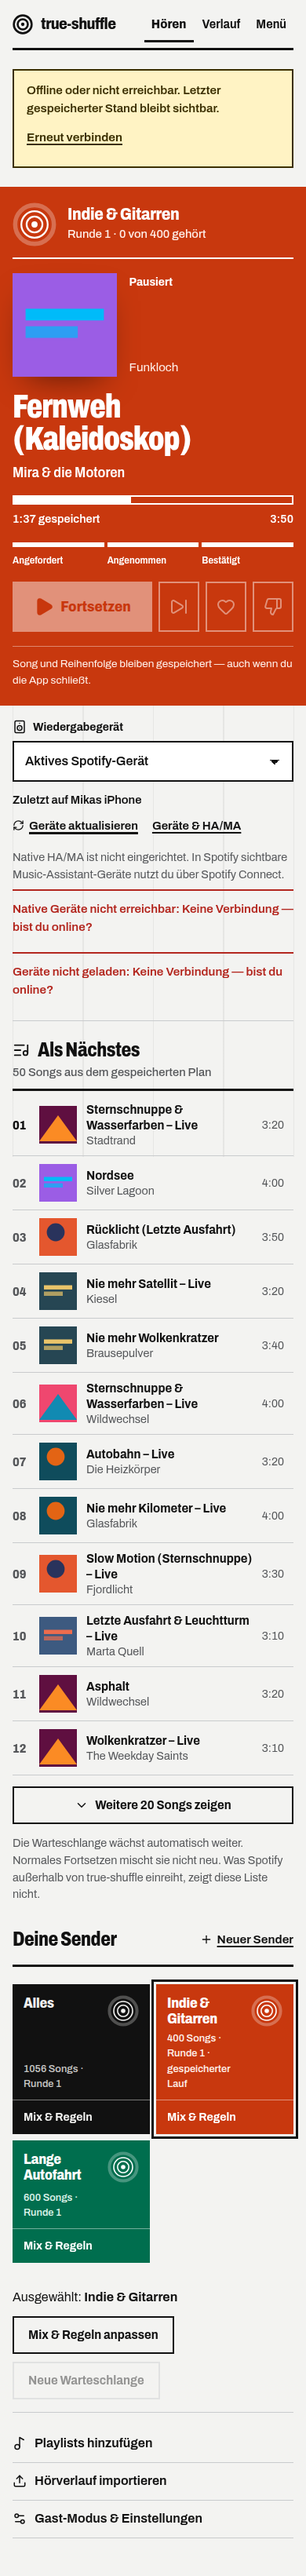
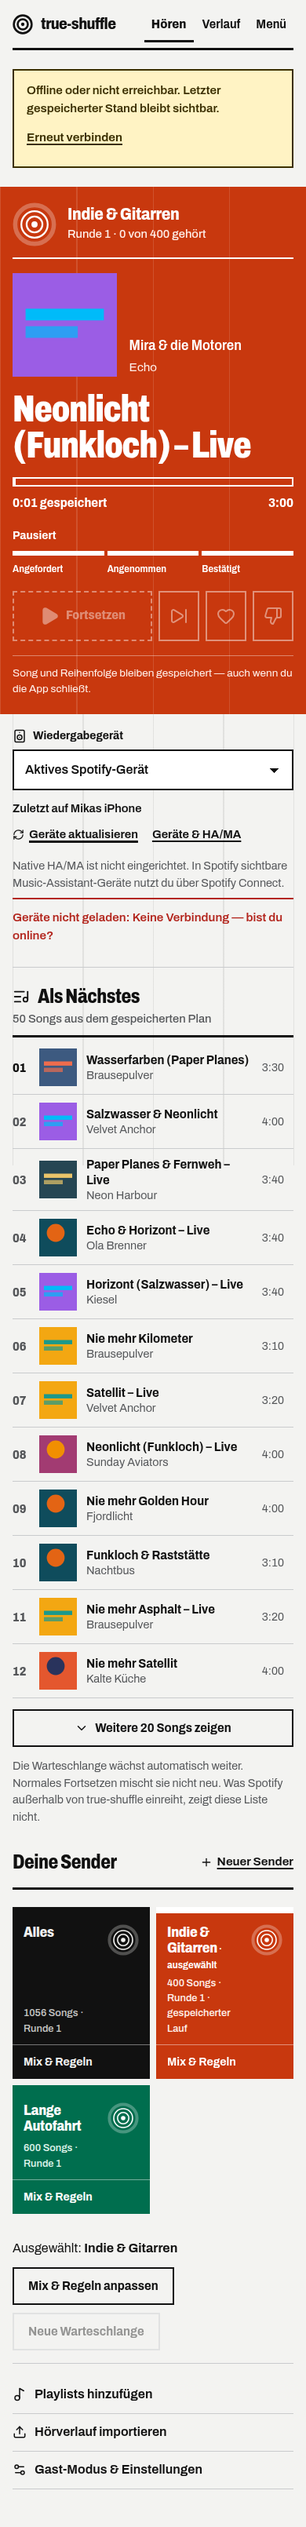
Apply finish-review fixes to the poster player
Give accepted commands their own label so requested, accepted and
confirmed read differently; print held transport keys as outline
overprint; scale song titles and times to poster size; stretch the
station poster wall across the desktop grid; mark the section in the
header on sub-pages; print An/Aus beside switches; drop the duplicate
native-device error while the Spotify device error is shown.

Two client-playback assertions now expect the accepted-phase label
(Start angenommen …); they still assert that the command is not yet
confirmed.

Claude-Session: https://claude.ai/code/session_01QBgbPCtGYi5ogN8oLRbo26

diff --git a/src/client/styles.css b/src/client/styles.css
@@ -16,7 +16,7 @@
 	--fg-2: #55575a;
 	--rule: #111111;
 	--hair: #c9cbcd;
-	--grid: rgb(17 17 17 / 0.055);
+	--grid: rgb(17 17 17 / 0.08);
 	--raise: #ffffff;
 	--danger: #b3261e;
 	--warn-bg: #fff3c4;
@@ -48,7 +48,7 @@
 	--fg-2: #a3a5a8;
 	--rule: #f2f2ee;
 	--hair: #303236;
-	--grid: rgb(242 242 238 / 0.05);
+	--grid: rgb(242 242 238 / 0.075);
 	--raise: #17181a;
 	--danger: #ff8a7f;
 	--warn-bg: #3b2f00;
@@ -64,7 +64,7 @@
 		--fg-2: #a3a5a8;
 		--rule: #f2f2ee;
 		--hair: #303236;
-		--grid: rgb(242 242 238 / 0.05);
+		--grid: rgb(242 242 238 / 0.075);
 		--raise: #17181a;
 		--danger: #ff8a7f;
 		--warn-bg: #3b2f00;
@@ -347,7 +347,7 @@ svg {
 	border-bottom-color: var(--fg-2);
 }
 
-.app-header :where(nav a)[aria-current="page"] {
+.app-header :where(nav a)[aria-current] {
 	border-bottom-color: var(--fg);
 	font-weight: 800;
 }
@@ -501,7 +501,12 @@ main h1[tabindex="-1"]:focus {
 
 .poster {
 	position: relative;
-	background: var(--ink);
+	background-color: var(--ink);
+	background-image: repeating-linear-gradient(
+		to right,
+		color-mix(in srgb, var(--on) 13%, transparent) 0 1px,
+		transparent 1px 25%
+	);
 	color: var(--on);
 	padding: 20px var(--gutter) 22px;
 	display: grid;
@@ -581,11 +586,10 @@ main h1[tabindex="-1"]:focus {
 	display: grid;
 	grid-template-columns: min(34vw, 140px) minmax(0, 1fr);
 	grid-template-areas:
-		"art status"
+		"art artist"
 		"art album"
-		"title title"
-		"artist artist";
-	grid-template-rows: auto 1fr auto auto;
+		"title title";
+	grid-template-rows: 1fr auto auto;
 	column-gap: 16px;
 	row-gap: 6px;
 }
@@ -597,7 +601,6 @@ main h1[tabindex="-1"]:focus {
 	height: auto;
 	object-fit: cover;
 	background: color-mix(in srgb, var(--on) 14%, var(--ink));
-	box-shadow: 0 18px 40px -18px rgb(0 0 0 / 0.55);
 	margin-bottom: 10px;
 }
 
@@ -605,8 +608,12 @@ main h1[tabindex="-1"]:focus {
 	display: contents;
 }
 
+.signal-block {
+	display: grid;
+	gap: 8px;
+}
+
 .session-status {
-	grid-area: status;
 	font-weight: 700;
 	font-stretch: 90%;
 	font-size: 0.95rem;
@@ -615,7 +622,8 @@ main h1[tabindex="-1"]:focus {
 
 .now-copy h2 {
 	grid-area: title;
-	font-size: clamp(2.35rem, 11vw, 4.6rem);
+	overflow-wrap: break-word;
+	font-size: clamp(2.6rem, 12.5vw, 4.25rem);
 	font-weight: 850;
 	font-stretch: 72%;
 	line-height: 0.94;
@@ -625,6 +633,7 @@ main h1[tabindex="-1"]:focus {
 
 .now-copy .artist {
 	grid-area: artist;
+	align-self: end;
 	font-size: clamp(1.15rem, 4.6vw, 1.6rem);
 	font-weight: 600;
 	font-stretch: 88%;
@@ -697,9 +706,11 @@ main h1[tabindex="-1"]:focus {
 .progress-labels {
 	display: flex;
 	justify-content: space-between;
+	align-items: baseline;
 	gap: 12px;
-	font-size: 0.9rem;
-	font-weight: 600;
+	font-size: 1.05rem;
+	font-weight: 750;
+	font-stretch: 85%;
 }
 
 /* Signal: requested → accepted → confirmed. */
@@ -811,9 +822,17 @@ main h1[tabindex="-1"]:focus {
 	background: color-mix(in srgb, var(--on) 92%, var(--ink));
 }
 
-.poster .icon-button:disabled,
-.poster .primary:disabled {
+.poster .icon-button:disabled {
 	opacity: 0.45;
+}
+
+/* Not available now (held, offline, not ready): the key prints as outline overprint. */
+.poster .transport-main:disabled {
+	background: transparent;
+	color: var(--on);
+	border-style: dashed;
+	font-size: 1.02rem;
+	line-height: 1.15;
 }
 
 .poster__note {
@@ -1293,13 +1312,20 @@ select.input {
 	background: var(--ink);
 	color: var(--on);
 	min-width: 0;
-	outline: 3px solid transparent;
-	outline-offset: 3px;
-	transition: outline-color var(--t) var(--ease);
+	border-top: 8px solid transparent;
+	transition: border-color var(--t) var(--ease);
 }
 
 .station-choice--selected {
-	outline-color: var(--fg);
+	border-top-color: var(--on);
+}
+
+.station-choice--selected .station-choice__name::after {
+	content: " · ausgewählt";
+	font-size: 0.8rem;
+	font-weight: 650;
+	font-stretch: 90%;
+	letter-spacing: 0;
 }
 
 .station-choice button {
@@ -1583,6 +1609,13 @@ input[type="radio"].check {
 	flex: none;
 	display: inline-flex;
 	align-items: center;
+	gap: 10px;
+}
+
+.lever__state {
+	min-width: 3ch;
+	font-weight: 800;
+	font-stretch: 85%;
 }
 
 .switch {
@@ -2195,7 +2228,6 @@ input[type="radio"].check {
 		min-width: 0;
 	}
 
-	.now-copy .session-status,
 	.now-copy h2,
 	.now-copy .artist,
 	.now-copy .album {
@@ -2204,7 +2236,7 @@ input[type="radio"].check {
 	}
 
 	.now-copy h2 {
-		font-size: clamp(2.4rem, 7vw, 4.4rem);
+		font-size: clamp(2.8rem, 7.5vw, 4.6rem);
 	}
 }
 
@@ -2267,7 +2299,7 @@ input[type="radio"].check {
 	}
 
 	.now-copy h2 {
-		font-size: clamp(3rem, 4.6vw, 5.4rem);
+		font-size: clamp(3.4rem, 5.4vw, 6rem);
 	}
 
 	.library .station-actions,
@@ -2283,6 +2315,26 @@ input[type="radio"].check {
 	.library > .section__head,
 	.library > .station-list {
 		grid-column: 1 / -1;
+	}
+
+	.library > .station-list {
+		grid-template-columns: repeat(auto-fit, minmax(240px, 1fr));
+		gap: 10px;
+	}
+
+	.station-choice button {
+		min-height: 168px;
+		padding: 18px 18px 14px;
+	}
+
+	.station-choice__name {
+		font-size: clamp(1.6rem, 2.2vw, 2.25rem);
+		line-height: 0.98;
+	}
+
+	.station-choice .round-figure {
+		width: 56px;
+		height: 56px;
 	}
 
 	.library > .station-actions {

diff --git a/src/client/screens/home.tsx b/src/client/screens/home.tsx
@@ -244,11 +244,17 @@ export function Home({ state }: { state: AppState }) {
 			? "Befehl fehlgeschlagen"
 			: command?.phase === "unconfirmed"
 				? "Bestätigung steht aus"
-				: command?.action === "pause"
-					? "Pause angefordert …"
-					: command?.action === "next"
-						? "Songwechsel angefordert …"
-						: "Start angefordert …";
+				: command?.phase === "accepted"
+					? command.action === "pause"
+						? "Pause angenommen …"
+						: command.action === "next"
+							? "Songwechsel angenommen …"
+							: "Start angenommen …"
+					: command?.action === "pause"
+						? "Pause angefordert …"
+						: command?.action === "next"
+							? "Songwechsel angefordert …"
+							: "Start angefordert …";
 
 	const thumb = async (value: -1 | 1) => {
 		if (!track || view.projected || view.awaitingObservation || unsettled) return;
@@ -327,9 +333,6 @@ export function Home({ state }: { state: AppState }) {
 					<div class="now-shelf">
 						<Cover src={track?.imageUrl ?? posterStation?.imageUrl} class="player-art" eager />
 						<div class="now-copy">
-							<p class="session-status" role="status">
-								{statusText}
-							</p>
 							<h2>{track?.name ?? "Dein nächster Lieblingssong"}</h2>
 							<p class="artist">
 								{track?.artists ?? "Wähle einen Sender und starte deine Warteschlange."}
@@ -346,16 +349,21 @@ export function Home({ state }: { state: AppState }) {
 							durationMs={track.durationMs}
 						/>
 					) : null}
-					<ol class={`signal signal--${signal.tone}`} aria-hidden="true">
-						{(["Angefordert", "Angenommen", "Bestätigt"] as const).map((label, i) => (
-							<li
-								key={label}
-								class={i < signal.level ? "signal__step signal__step--on" : "signal__step"}
-							>
-								{label}
-							</li>
-						))}
-					</ol>
+					<div class="signal-block">
+						<p class="session-status" role="status">
+							{statusText}
+						</p>
+						<ol class={`signal signal--${signal.tone}`} aria-hidden="true">
+							{(["Angefordert", "Angenommen", "Bestätigt"] as const).map((label, i) => (
+								<li
+									key={label}
+									class={i < signal.level ? "signal__step signal__step--on" : "signal__step"}
+								>
+									{label}
+								</li>
+							))}
+						</ol>
+					</div>
 					<div class="transport-shelf">
 						<div class="transport">
 							<button
@@ -593,7 +601,7 @@ export function Home({ state }: { state: AppState }) {
 								nutzt du über Spotify Connect.
 							</p>
 						) : null}
-						{nativeError ? (
+						{nativeError && !deviceError ? (
 							<p class="note note--error">Native Geräte nicht erreichbar: {nativeError}</p>
 						) : null}
 						{deviceError ? (

diff --git a/e2e/client-playback.spec.ts b/e2e/client-playback.spec.ts
@@ -241,7 +241,7 @@ test("resume acceptance stays pending through old observations and exposes bound
 	model.state.session!.status = "active";
 	model.state.nowPlaying!.isPlaying = true;
 	await advance(page, 5000);
-	await expect(page.locator(".session-status")).toHaveText("Start angefordert …");
+	await expect(page.locator(".session-status")).toHaveText("Start angenommen …");
 	await expect(page.getByRole("progressbar")).toHaveAttribute("value", "12000");
 	await advance(page, 16_000);
 	await expect(page.locator(".session-status")).toHaveText("Bestätigung steht aus");
@@ -576,7 +576,7 @@ test("an unconfirmed pause with a vanished device allows deliberate saved-song r
 				body: { deviceId: "speaker", newQueue: false, sessionId: saved.sessionId },
 			},
 		]);
-	await expect(page.locator(".session-status")).toHaveText("Start angefordert …");
+	await expect(page.locator(".session-status")).toHaveText("Start angenommen …");
 	expect(model.state.session!.sessionId).toBe(saved.sessionId);
 	expect(model.state.session!.entryId).toBe(saved.entryId);
 	expect(model.state.session!.progressMs).toBe(saved.progressMs);

diff --git a/src/client/app.tsx b/src/client/app.tsx
@@ -109,13 +109,33 @@ export function App() {
 				</a>
 				{s.load.kind === "signed-out" ? null : (
 					<nav aria-label="Hauptnavigation">
-						<a href="/" aria-current={route.name === "home" ? "page" : undefined}>
+						<a
+							href="/"
+							aria-current={
+								route.name === "home"
+									? "page"
+									: route.name === "station" ||
+											route.name === "new-station" ||
+											route.name === "scan"
+										? "true"
+										: undefined
+							}
+						>
 							Hören
 						</a>
 						<a href="/verlauf" aria-current={route.name === "history" ? "page" : undefined}>
 							Verlauf
 						</a>
-						<a href="/menu" aria-current={route.name === "menu" ? "page" : undefined}>
+						<a
+							href="/menu"
+							aria-current={
+								route.name === "menu"
+									? "page"
+									: ["import", "devices", "about", "remote"].includes(route.name)
+										? "true"
+										: undefined
+							}
+						>
 							Menü
 						</a>
 					</nav>

diff --git a/src/client/screens/menu.tsx b/src/client/screens/menu.tsx
@@ -114,6 +114,9 @@ export function MenuScreen({ state }: { state: AppState }) {
 								checked={guest.active}
 								onChange={(e) => toggleGuest((e.target as HTMLInputElement).checked)}
 							/>
+							<span class="lever__state" aria-hidden="true">
+								{guest.active ? "An" : "Aus"}
+							</span>
 						</span>
 					</label>
 					{!guest.active ? (

diff --git a/src/client/screens/station.tsx b/src/client/screens/station.tsx
@@ -538,6 +538,9 @@ export function Station({
 									setRule({ discoveryEnabled: (e.target as HTMLInputElement).checked })
 								}
 							/>
+							<span class="lever__state" aria-hidden="true">
+								{rules.discoveryEnabled ? "An" : "Aus"}
+							</span>
 						</span>
 					</label>
 					<Stepper

diff --git a/.impeccable/surfaces/src-client.md b/.impeccable/surfaces/src-client.md
@@ -11,7 +11,7 @@ Mode: Operate. Build path: code-led (recorded default). Replacement world confir
 THESIS: The current song is a concert poster for this station: one printed field per Sender carries title, artist, cover and transport at poster scale, and the saved order runs beneath like the programme. Refuses the category default (dark Spotify clone with small art and a bottom bar) and the previous quiet library desk of uniform rows.
 OWN-WORLD: Swiss concert-poster system. Each Sender owns one flat printing ink (ultramarine, vermilion, signal yellow, green, violet, petrol; "Alles" prints black/ink). Paper-white or black ground, visible hairline construction grid, Archivo Variable grotesk only: condensed heavy display, normal-width text, tabular numerals. Square corners, no shadows except the dialog. Concentric round figure prints the real round share (heard of total). Overprint rule: requested and estimated states print as outline/hatched overprint, never in the solid confirmed ink.
 STORY: Glance: which song, on which Sender, playing or not, is it confirmed. Tap: Fortsetzen/Pause, Weiter, Favorit, nie wieder, device. Scroll: Als Nächstes (stored order, progressive), then the poster wall of Sender to pick another without replacing the saved song; Mix & Regeln, Verlauf, Menü one tap away.
-FIRST VIEWPORT: Header bar: lowercase true-shuffle, Hören/Verlauf/Menü. Mobile: full-width ink poster: Sender name + round figure top, cover square, huge condensed title, artist/album, thick progress rule with times, signal row Angefordert/Angenommen/Bestätigt, 64px play key plus three 52px keys. Device select directly under the poster. Desktop ≥1100px: 12-col grid, poster 7 cols sticky left, queue 5 cols right, poster wall full width below.
+FIRST VIEWPORT: Header bar: lowercase true-shuffle, Hören/Verlauf/Menü. Mobile: full-width ink poster: Sender name + round figure top, cover square, huge condensed title, artist/album, thick progress rule with times, signal row Angefordert/Angenommen/Bestätigt, 64px play key plus three 52px keys. Device select directly under the poster. Desktop ≥1100px: 12-col grid, poster column 7 cols left (not sticky: it carries device and recovery controls taller than a laptop viewport, which sticking would hide), queue 5 cols right, poster wall full width below with tiles stretching across all 12 columns.
 FORM: Swiss concert poster (Tonhalle/Musica Viva lineage), own grounded list position 4, seed key f264702d. Raises: visible grid armature (from Crouwel specimen); overprint never edits confirmed ink (from orienteering course layer); cancelled/heard stays visible rather than vanishing (from ticket wallet).
 SIGNATURE INTERACTION: The three-step signal under the title: a command lights "Angefordert", the provider acknowledgment "Angenommen", and only a fresh observation prints "Bestätigt" solid; Pause freezes the clock and the bar turns to outline at once. Fortsetzen keeps the same saved occurrence and position; Neue Warteschlange stays a separate inline confirmation.
 MOTION: 180ms ease-out state fills on keys and signal steps; progress bar width eases; no entrance choreography; reduced motion removes all transitions.
